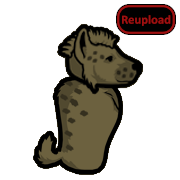
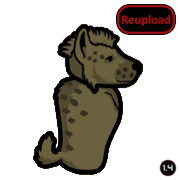
Last update, added end-of-life message

Changed region(s): [[0.8889, 0.8889, 1.0, 1.0]]

diff --git a/README.md b/README.md
@@ -8,7 +8,7 @@ https://steamcommunity.com/sharedfiles/filedetails/?id=1544268433
 - Adds a gnoll faction
 - Adds a playable gnoll tribal scenario
 
-![Image](https://i.imgur.com/pufA0kM.png)
+![Image](https://i.imgur.com/KFjAmff.png)
 
 	
 ![Image](https://i.imgur.com/Z4GOv8H.png)
@@ -34,12 +34,13 @@ Gnolls are brutish. While they’ll complain about eating kibble and sleeping on
 
 -  See if the the error persists if you just have this mod and its requirements active.
 -  If not, try adding your other mods until it happens again.
--  Post your error-log using https://steamcommunity.com/workshop/filedetails/?id=818773962]HugsLib and command Ctrl+F12
+-  Post your error-log using https://steamcommunity.com/workshop/filedetails/?id=818773962]HugsLib or the standalone https://steamcommunity.com/sharedfiles/filedetails/?id=2873415404]Uploader and command Ctrl+F12
 -  For best support, please use the Discord-channel for error-reporting.
 -  Do not report errors by making a discussion-thread, I get no notification of that.
 -  If you have the solution for a problem, please post it to the GitHub repository.
+-  Use https://github.com/RimSort/RimSort/releases/latest]RimSort to sort your mods
 
 
 
+https://steamcommunity.com/sharedfiles/filedetails/changelog/2288504183]![Image](https://img.shields.io/github/v/release/emipa606/GnollRace?label=latest%20version&style=plastic&color=9f1111&labelColor=black)
 
-https://steamcommunity.com/sharedfiles/filedetails/changelog/2288504183]Last updated 2023-01-09
